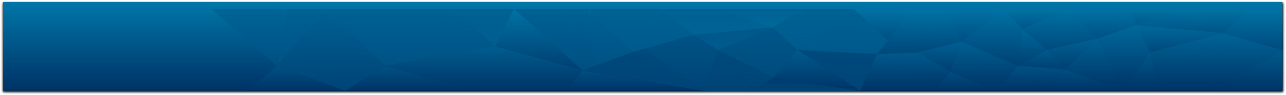
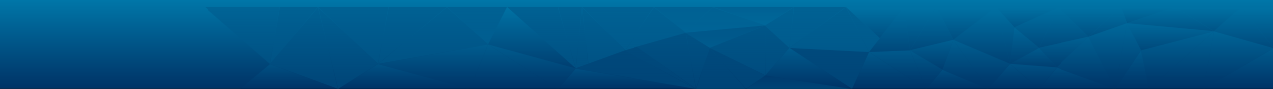
header fix and edit-home progress

Changed region(s): [[0.0, 0.0, 1.0, 1.0]]

diff --git a/src/app/edit-home/edit-home.component.less b/src/app/edit-home/edit-home.component.less
@@ -22,8 +22,8 @@
 }
 
 .edit-home {
-    min-height: ~'calc(100vh - 80px)';
     .gradient;
+    min-height: ~'calc(100vh - 80px)';
     font-family: 'Open Sans', sans-serif;
     padding: 0px;
     display: flex;
@@ -41,4 +41,55 @@
         width: 90%;
         margin-bottom: 10px;
     }
+    .content {
+        display: flex;
+        justify-content: center;
+        form {
+            background: white;
+            min-height: 500px;
+            padding: 30px;
+        }
+        label {
+            color: @primary;
+            font-size: 20px;
+            margin-top: 20px;
+            padding: 0px;
+        }
+        .file-group {
+            display: flex;
+            padding: 0px;
+            height: 25px;
+            input {
+                width: 220px;
+                border:1px solid @border-color;
+                text-indent: 5px;
+            }
+            label {
+                margin: 0px;
+                .gradient;
+                font-family: 'Open Sans', sans-serif;
+                font-weight: 600;
+                width: 60px;
+                font-size: 9.3px;
+                display: flex;
+                justify-content: center;
+                align-items: center;
+                height: 25px;
+                border: 1px solid;
+                border-left: none;
+                border-top-right-radius: 5px;
+                border-bottom-right-radius: 5px;
+                border-color: @border-color;   
+                cursor: pointer;                
+                &:hover{
+                    background:#cccccc;
+                    color: @primary;
+                }
+            }
+        }
+        #image {
+            display: none;
+        }
+    }
+    
 }

diff --git a/src/app/edit-home/edit-home.component.html b/src/app/edit-home/edit-home.component.html
@@ -1,4 +1,25 @@
 <div class="edit-home">
   <h3>Home</h3>
   <hr>
+  <div class="content col-md-12 col-xl-12 col-sm-12">
+    <form class="col-md-6 col-xs-12">
+      <label for="description" class="col-md-12">
+        Home Edition
+      </label>
+      <textarea  id="description" class="col-md-12" rows="10">
+
+      </textarea>
+      <label for="image" class="col-md-12">
+        Image
+      </label>
+      <div class="file-group col-md-12">
+        <input type="text" [value]="fileName"  name="image-field" readonly class="image-field" >
+        <label for="image" (click)="browseClick()">
+          Browse
+        </label>
+      </div>
+      <input type="file" id="image" #file (change)="fileValueChange(file)" name="image">
+      <img [src]="target.result || '#'" alt="your image">
+    </form>  
+  </div>
 </div>

diff --git a/src/app/header/header.component.less b/src/app/header/header.component.less
@@ -17,16 +17,11 @@
     padding: 0px;
     height: 80px;
     width: 100%;
-    background: url('assets/blue header.jpg') no-repeat center center;
-    background-size: initial;
-    border: none;
+    background: url('assets/blue header.jpg') no-repeat center;
+    background-size: cover;
     display: flex;
     align-items: center;
     border-bottom: 1px solid black;
-    // bottom shadow
-    -webkit-box-shadow: 0px 10px 37px -9px rgba(0,0,0,0.75);
-    -moz-box-shadow: 0px 10px 37px -9px rgba(0,0,0,0.75);
-    box-shadow: 0px 10px 37px -9px rgba(0,0,0,0.75);
     .logo-container {
         flex: 1;    
         display: flex;

diff --git a/src/app/edit-home/edit-home.component.ts b/src/app/edit-home/edit-home.component.ts
@@ -6,10 +6,27 @@ import { Component, OnInit } from '@angular/core';
   styleUrls: ['./edit-home.component.less']
 })
 export class EditHomeComponent implements OnInit {
-
+  fileName: String = '';
+  imageSrc: String = '#';
+  target = {
+    result: ''
+  };
   constructor() { }
 
   ngOnInit() {
+  }
+
+  fileValueChange(input) {
+    this.fileName = input.files[0].name;
+    let reader = new FileReader();
+    reader.onload = (e: Event) => {
+      this.target = e.target;
+      
+    }
+    reader.readAsDataURL(input.files[0])
+   }
+  browseClick() {
+    this.fileName = '';
   }
 
 }
